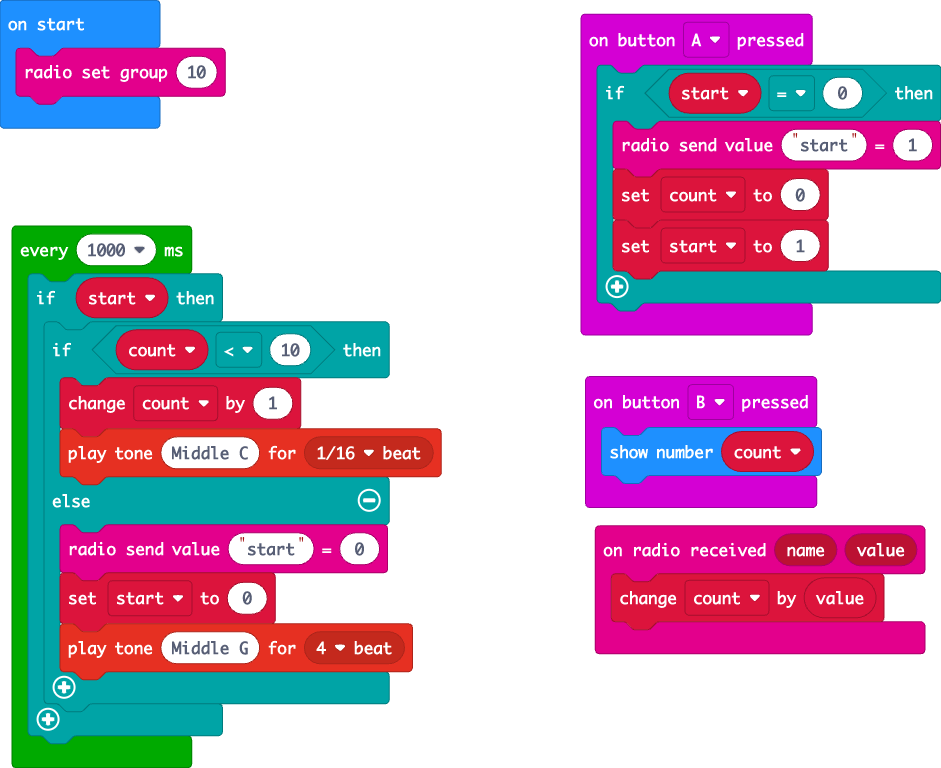
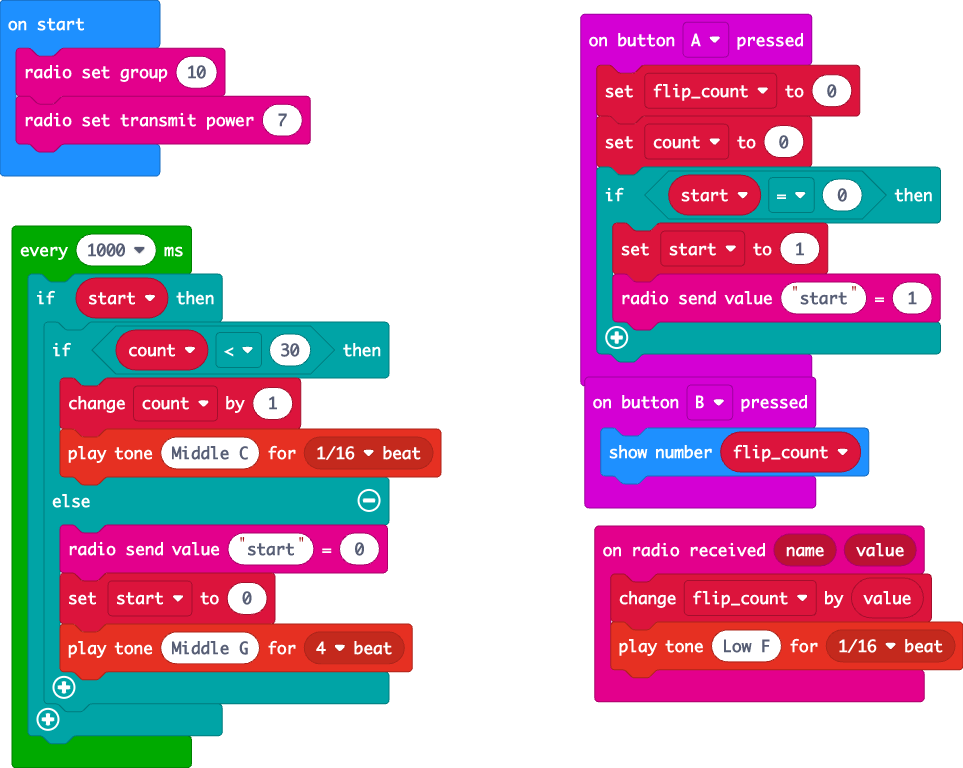
Update main.blocks, main.ts

diff --git a/main.ts b/main.ts
@@ -1,22 +1,26 @@
 input.onButtonPressed(Button.A, function () {
+    flip_count = 0
+    count = 0
     if (start == 0) {
-        radio.sendValue("start", 1)
-        count = 0
         start = 1
+        radio.sendValue("start", 1)
     }
 })
 input.onButtonPressed(Button.B, function () {
-    basic.showNumber(count)
+    basic.showNumber(flip_count)
 })
 radio.onReceivedValue(function (name, value) {
-    count += value
+    flip_count += value
+    music.playTone(175, music.beat(BeatFraction.Sixteenth))
 })
-let count = 0
 let start = 0
+let count = 0
+let flip_count = 0
 radio.setGroup(10)
+radio.setTransmitPower(7)
 loops.everyInterval(1000, function () {
     if (start) {
-        if (count < 10) {
+        if (count < 30) {
             count += 1
             music.playTone(262, music.beat(BeatFraction.Sixteenth))
         } else {
